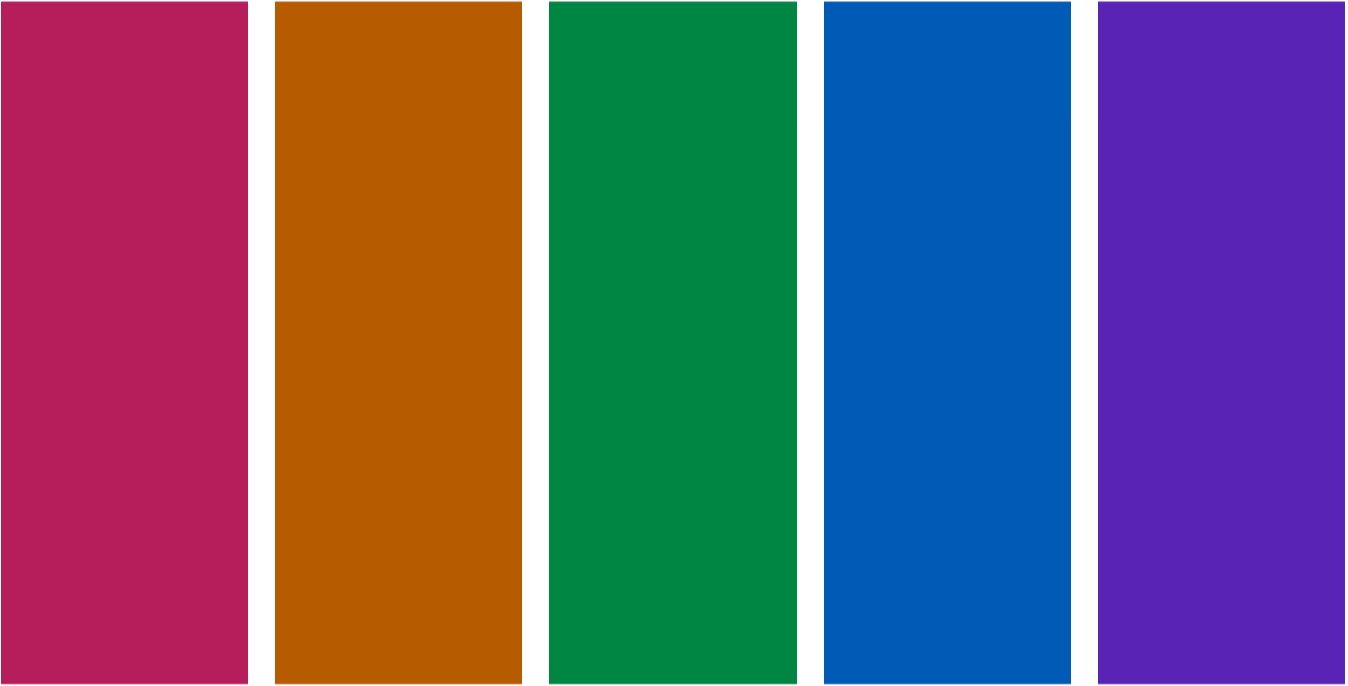
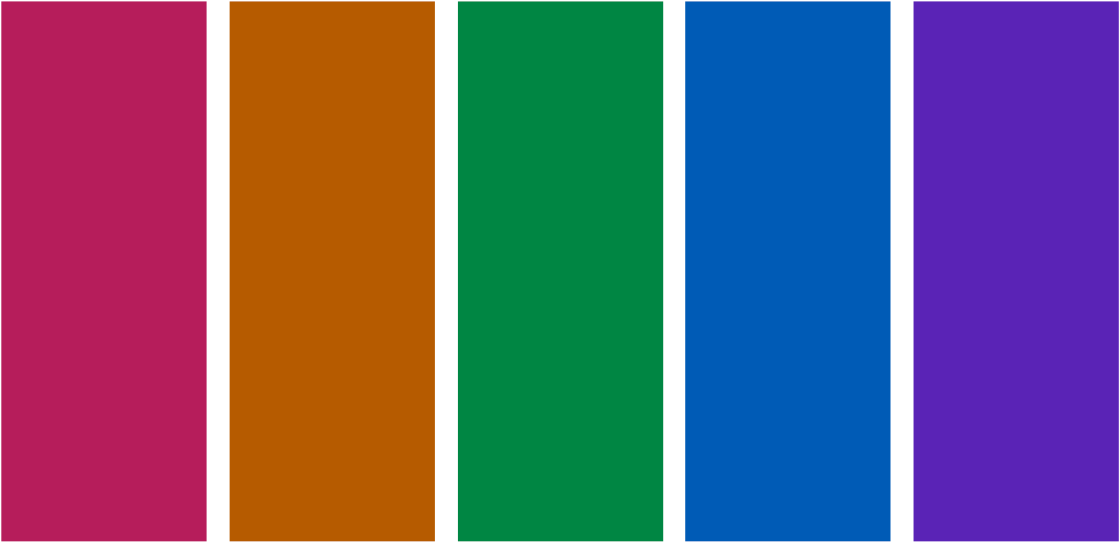
fix colour codes and images

diff --git a/_site/posts/2021-05-15-custom-syntax-highlighting-for-distill/index.html b/_site/posts/2021-05-15-custom-syntax-highlighting-for-distill/index.html
@@ -105,8 +105,8 @@ code span.wa { color: #5e5e5e; font-style: italic; } /* Warning */
 <meta property="og:description" content="A guide to modifying the default {distill} syntax highlighting theme, including colour choice considerations, and its implementation in {distilltools}"/>
 <meta property="og:url" content="https://ellakaye.rbind.io/posts/2021-05-15-custom-syntax-highlighting-for-distill/"/>
 <meta property="og:image" content="https://ellakaye.rbind.io/posts/2021-05-15-custom-syntax-highlighting-for-distill/more-theme-in-action.png"/>
-<meta property="og:image:width" content="1356"/>
-<meta property="og:image:height" content="1092"/>
+<meta property="og:image:width" content="1850"/>
+<meta property="og:image:height" content="1470"/>
 <meta property="og:locale" content="en_US"/>
 <meta property="og:site_name" content="ELLA KAYE"/>
 
@@ -116,8 +116,8 @@ code span.wa { color: #5e5e5e; font-style: italic; } /* Warning */
 <meta property="twitter:description" content="A guide to modifying the default {distill} syntax highlighting theme, including colour choice considerations, and its implementation in {distilltools}"/>
 <meta property="twitter:url" content="https://ellakaye.rbind.io/posts/2021-05-15-custom-syntax-highlighting-for-distill/"/>
 <meta property="twitter:image" content="https://ellakaye.rbind.io/posts/2021-05-15-custom-syntax-highlighting-for-distill/more-theme-in-action.png"/>
-<meta property="twitter:image:width" content="1356"/>
-<meta property="twitter:image:height" content="1092"/>
+<meta property="twitter:image:width" content="1850"/>
+<meta property="twitter:image:height" content="1470"/>
 <meta property="twitter:site" content="@ellamkaye"/>
 <meta property="twitter:creator" content="@ellamkaye"/>
 
@@ -2562,7 +2562,7 @@ gtag('config', 'UA-101621242-1');
 <p>At the end of the process, the palette for my syntax highlighting scheme is as in Figure <a href="#fig:ek-syntax-highlighting-palette">1</a>.</p>
 <div class="layout-chunk" data-layout="l-body">
 <div class="figure"><span id="fig:ek-syntax-highlighting-palette"></span>
-<img src="ek-syntax-highlighting-palette.png" alt="A swatch of five colours, a bright pink, orange, green, blue and purple." width="674" />
+<img src="ek-syntax-highlighting-palette.png" alt="A swatch of five colours, a bright pink, orange, green, blue and purple." width="560" />
 <p class="caption">
 Figure 1: The color palette used for syntax highlighting throughout this site.
 </p>
@@ -2576,10 +2576,10 @@ Figure 1: The color palette used for syntax highlighting throughout this site.
 <span class='va'>theme</span> <span class='op'>&lt;-</span> <span class='fu'><a href='https://rdrr.io/r/base/readLines.html'>readLines</a></span><span class='op'>(</span><span class='st'>"arrow.theme"</span><span class='op'>)</span>
 
 <span class='co'># base R approach</span>
-<span class='va'>theme</span> <span class='op'>&lt;-</span> <span class='fu'><a href='https://rdrr.io/r/base/grep.html'>gsub</a></span><span class='op'>(</span><span class='st'>"#AD0000"</span>, <span class='st'>"#BD005B"</span>, <span class='va'>theme</span><span class='op'>)</span> <span class='co'># red -&gt; pink</span>
-<span class='va'>theme</span> <span class='op'>&lt;-</span> <span class='fu'><a href='https://rdrr.io/r/base/grep.html'>gsub</a></span><span class='op'>(</span><span class='st'>"#8f5902"</span>, <span class='st'>"#B65D00"</span>, <span class='va'>theme</span><span class='op'>)</span> <span class='co'># brown -&gt; orange </span>
-<span class='va'>theme</span> <span class='op'>&lt;-</span> <span class='fu'><a href='https://rdrr.io/r/base/grep.html'>gsub</a></span><span class='op'>(</span><span class='st'>"#007BA5"</span>, <span class='st'>"#5A00B5"</span>, <span class='va'>theme</span><span class='op'>)</span> <span class='co'># blue -&gt; purple</span>
-<span class='va'>theme</span> <span class='op'>&lt;-</span> <span class='fu'><a href='https://rdrr.io/r/base/grep.html'>gsub</a></span><span class='op'>(</span><span class='st'>"#20794D"</span>, <span class='st'>"#008643"</span>, <span class='va'>theme</span><span class='op'>)</span> <span class='co'># green -&gt; green</span>
+<span class='va'>theme</span> <span class='op'>&lt;-</span> <span class='fu'><a href='https://rdrr.io/r/base/grep.html'>gsub</a></span><span class='op'>(</span><span class='st'>"#AD0000"</span>, <span class='st'>"#B6005B"</span>, <span class='va'>theme</span><span class='op'>)</span> <span class='co'># red -&gt; pink</span>
+<span class='va'>theme</span> <span class='op'>&lt;-</span> <span class='fu'><a href='https://rdrr.io/r/base/grep.html'>gsub</a></span><span class='op'>(</span><span class='st'>"#8f5902"</span>, <span class='st'>"#B65B00"</span>, <span class='va'>theme</span><span class='op'>)</span> <span class='co'># brown -&gt; brown </span>
+<span class='va'>theme</span> <span class='op'>&lt;-</span> <span class='fu'><a href='https://rdrr.io/r/base/grep.html'>gsub</a></span><span class='op'>(</span><span class='st'>"#007BA5"</span>, <span class='st'>"#5B00B6"</span>, <span class='va'>theme</span><span class='op'>)</span> <span class='co'># blue -&gt; purple</span>
+<span class='va'>theme</span> <span class='op'>&lt;-</span> <span class='fu'><a href='https://rdrr.io/r/base/grep.html'>gsub</a></span><span class='op'>(</span><span class='st'>"#20794D"</span>, <span class='st'>"#B65B00"</span>, <span class='va'>theme</span><span class='op'>)</span> <span class='co'># green -&gt; green</span>
 <span class='va'>theme</span> <span class='op'>&lt;-</span> <span class='fu'><a href='https://rdrr.io/r/base/grep.html'>gsub</a></span><span class='op'>(</span><span class='st'>"#4758AB"</span>, <span class='st'>"#005BB6"</span>, <span class='va'>theme</span><span class='op'>)</span> <span class='co'># purple -&gt; blue</span>
 
 <span class='co'># alternatively, tidyverse approach</span>
@@ -2587,9 +2587,9 @@ Figure 1: The color palette used for syntax highlighting throughout this site.
 <span class='kw'><a href='https://rdrr.io/r/base/library.html'>library</a></span><span class='op'>(</span><span class='va'><a href='https://magrittr.tidyverse.org'>magrittr</a></span><span class='op'>)</span>
 
 <span class='va'>theme</span> <span class='op'>&lt;-</span> <span class='fu'><a href='https://rdrr.io/r/base/readLines.html'>readLines</a></span><span class='op'>(</span><span class='st'>"arrow.theme"</span><span class='op'>)</span> <span class='op'>%&gt;%</span>
-   <span class='fu'><a href='https://stringr.tidyverse.org/reference/str_replace.html'>str_replace_all</a></span><span class='op'>(</span><span class='st'>"#AD0000"</span>, <span class='st'>"#BD005B"</span><span class='op'>)</span> <span class='op'>%&gt;%</span> <span class='co'># red -&gt; pink</span>
-   <span class='fu'><a href='https://stringr.tidyverse.org/reference/str_replace.html'>str_replace_all</a></span><span class='op'>(</span><span class='st'>"#8f5902"</span>, <span class='st'>"#B65D00"</span><span class='op'>)</span> <span class='op'>%&gt;%</span> <span class='co'># brown -&gt; brown </span>
-   <span class='fu'><a href='https://stringr.tidyverse.org/reference/str_replace.html'>str_replace_all</a></span><span class='op'>(</span><span class='st'>"#007BA5"</span>, <span class='st'>"#5A00B5"</span><span class='op'>)</span> <span class='op'>%&gt;%</span> <span class='co'># blue -&gt; purple</span>
+   <span class='fu'><a href='https://stringr.tidyverse.org/reference/str_replace.html'>str_replace_all</a></span><span class='op'>(</span><span class='st'>"#AD0000"</span>, <span class='st'>"#B6005B"</span><span class='op'>)</span> <span class='op'>%&gt;%</span> <span class='co'># red -&gt; pink</span>
+   <span class='fu'><a href='https://stringr.tidyverse.org/reference/str_replace.html'>str_replace_all</a></span><span class='op'>(</span><span class='st'>"#8f5902"</span>, <span class='st'>"#B65B00"</span><span class='op'>)</span> <span class='op'>%&gt;%</span> <span class='co'># brown -&gt; brown </span>
+   <span class='fu'><a href='https://stringr.tidyverse.org/reference/str_replace.html'>str_replace_all</a></span><span class='op'>(</span><span class='st'>"#007BA5"</span>, <span class='st'>"#5B00B6"</span><span class='op'>)</span> <span class='op'>%&gt;%</span> <span class='co'># blue -&gt; purple</span>
    <span class='fu'><a href='https://stringr.tidyverse.org/reference/str_replace.html'>str_replace_all</a></span><span class='op'>(</span><span class='st'>"#20794D"</span>, <span class='st'>"#008643"</span><span class='op'>)</span> <span class='op'>%&gt;%</span> <span class='co'># green -&gt; green</span>
    <span class='fu'><a href='https://stringr.tidyverse.org/reference/str_replace.html'>str_replace_all</a></span><span class='op'>(</span><span class='st'>"#4758AB"</span>, <span class='st'>"#005BB6"</span><span class='op'>)</span>     <span class='co'># purple -&gt; blue</span>
 

diff --git a/_posts/2021-05-15-custom-syntax-highlighting-for-distill/custom-syntax-highlighting-for-distill.html b/_posts/2021-05-15-custom-syntax-highlighting-for-distill/custom-syntax-highlighting-for-distill.html
@@ -101,8 +101,8 @@ code span.wa { color: #5e5e5e; font-style: italic; } /* Warning */
   <meta property="og:type" content="article"/>
   <meta property="og:description" content="A guide to modifying the default {distill} syntax highlighting theme, including colour choice considerations, and its implementation in {distilltools}"/>
   <meta property="og:image" content="https://ellakaye.rbind.io/more-theme-in-action.png"/>
-  <meta property="og:image:width" content="1356"/>
-  <meta property="og:image:height" content="1092"/>
+  <meta property="og:image:width" content="1850"/>
+  <meta property="og:image:height" content="1470"/>
   <meta property="og:locale" content="en_US"/>
 
   <!--  https://dev.twitter.com/cards/types/summary -->
@@ -110,8 +110,8 @@ code span.wa { color: #5e5e5e; font-style: italic; } /* Warning */
   <meta property="twitter:title" content="Custom Syntax Highlighting for {distill} Part 1: Modifying the default theme"/>
   <meta property="twitter:description" content="A guide to modifying the default {distill} syntax highlighting theme, including colour choice considerations, and its implementation in {distilltools}"/>
   <meta property="twitter:image" content="https://ellakaye.rbind.io/more-theme-in-action.png"/>
-  <meta property="twitter:image:width" content="1356"/>
-  <meta property="twitter:image:height" content="1092"/>
+  <meta property="twitter:image:width" content="1850"/>
+  <meta property="twitter:image:height" content="1470"/>
   <meta property="twitter:site" content="@ellamkaye"/>
   <meta property="twitter:creator" content="@ellamkaye"/>
 
@@ -1626,7 +1626,7 @@ code span.wa { color: #5e5e5e; font-style: italic; } /* Warning */
 <p>At the end of the process, the palette for my syntax highlighting scheme is as in Figure <a href="#fig:ek-syntax-highlighting-palette">1</a>.</p>
 <div class="layout-chunk" data-layout="l-body">
 <div class="figure"><span id="fig:ek-syntax-highlighting-palette"></span>
-<img src="ek-syntax-highlighting-palette.png" alt="A swatch of five colours, a bright pink, orange, green, blue and purple." width="674" />
+<img src="ek-syntax-highlighting-palette.png" alt="A swatch of five colours, a bright pink, orange, green, blue and purple." width="560" />
 <p class="caption">
 Figure 1: The color palette used for syntax highlighting throughout this site.
 </p>
@@ -1640,10 +1640,10 @@ Figure 1: The color palette used for syntax highlighting throughout this site.
 <span class='va'>theme</span> <span class='op'>&lt;-</span> <span class='fu'><a href='https://rdrr.io/r/base/readLines.html'>readLines</a></span><span class='op'>(</span><span class='st'>"arrow.theme"</span><span class='op'>)</span>
 
 <span class='co'># base R approach</span>
-<span class='va'>theme</span> <span class='op'>&lt;-</span> <span class='fu'><a href='https://rdrr.io/r/base/grep.html'>gsub</a></span><span class='op'>(</span><span class='st'>"#AD0000"</span>, <span class='st'>"#BD005B"</span>, <span class='va'>theme</span><span class='op'>)</span> <span class='co'># red -&gt; pink</span>
-<span class='va'>theme</span> <span class='op'>&lt;-</span> <span class='fu'><a href='https://rdrr.io/r/base/grep.html'>gsub</a></span><span class='op'>(</span><span class='st'>"#8f5902"</span>, <span class='st'>"#B65D00"</span>, <span class='va'>theme</span><span class='op'>)</span> <span class='co'># brown -&gt; orange </span>
-<span class='va'>theme</span> <span class='op'>&lt;-</span> <span class='fu'><a href='https://rdrr.io/r/base/grep.html'>gsub</a></span><span class='op'>(</span><span class='st'>"#007BA5"</span>, <span class='st'>"#5A00B5"</span>, <span class='va'>theme</span><span class='op'>)</span> <span class='co'># blue -&gt; purple</span>
-<span class='va'>theme</span> <span class='op'>&lt;-</span> <span class='fu'><a href='https://rdrr.io/r/base/grep.html'>gsub</a></span><span class='op'>(</span><span class='st'>"#20794D"</span>, <span class='st'>"#008643"</span>, <span class='va'>theme</span><span class='op'>)</span> <span class='co'># green -&gt; green</span>
+<span class='va'>theme</span> <span class='op'>&lt;-</span> <span class='fu'><a href='https://rdrr.io/r/base/grep.html'>gsub</a></span><span class='op'>(</span><span class='st'>"#AD0000"</span>, <span class='st'>"#B6005B"</span>, <span class='va'>theme</span><span class='op'>)</span> <span class='co'># red -&gt; pink</span>
+<span class='va'>theme</span> <span class='op'>&lt;-</span> <span class='fu'><a href='https://rdrr.io/r/base/grep.html'>gsub</a></span><span class='op'>(</span><span class='st'>"#8f5902"</span>, <span class='st'>"#B65B00"</span>, <span class='va'>theme</span><span class='op'>)</span> <span class='co'># brown -&gt; brown </span>
+<span class='va'>theme</span> <span class='op'>&lt;-</span> <span class='fu'><a href='https://rdrr.io/r/base/grep.html'>gsub</a></span><span class='op'>(</span><span class='st'>"#007BA5"</span>, <span class='st'>"#5B00B6"</span>, <span class='va'>theme</span><span class='op'>)</span> <span class='co'># blue -&gt; purple</span>
+<span class='va'>theme</span> <span class='op'>&lt;-</span> <span class='fu'><a href='https://rdrr.io/r/base/grep.html'>gsub</a></span><span class='op'>(</span><span class='st'>"#20794D"</span>, <span class='st'>"#B65B00"</span>, <span class='va'>theme</span><span class='op'>)</span> <span class='co'># green -&gt; green</span>
 <span class='va'>theme</span> <span class='op'>&lt;-</span> <span class='fu'><a href='https://rdrr.io/r/base/grep.html'>gsub</a></span><span class='op'>(</span><span class='st'>"#4758AB"</span>, <span class='st'>"#005BB6"</span>, <span class='va'>theme</span><span class='op'>)</span> <span class='co'># purple -&gt; blue</span>
 
 <span class='co'># alternatively, tidyverse approach</span>
@@ -1651,9 +1651,9 @@ Figure 1: The color palette used for syntax highlighting throughout this site.
 <span class='kw'><a href='https://rdrr.io/r/base/library.html'>library</a></span><span class='op'>(</span><span class='va'><a href='https://magrittr.tidyverse.org'>magrittr</a></span><span class='op'>)</span>
 
 <span class='va'>theme</span> <span class='op'>&lt;-</span> <span class='fu'><a href='https://rdrr.io/r/base/readLines.html'>readLines</a></span><span class='op'>(</span><span class='st'>"arrow.theme"</span><span class='op'>)</span> <span class='op'>%&gt;%</span>
-   <span class='fu'><a href='https://stringr.tidyverse.org/reference/str_replace.html'>str_replace_all</a></span><span class='op'>(</span><span class='st'>"#AD0000"</span>, <span class='st'>"#BD005B"</span><span class='op'>)</span> <span class='op'>%&gt;%</span> <span class='co'># red -&gt; pink</span>
-   <span class='fu'><a href='https://stringr.tidyverse.org/reference/str_replace.html'>str_replace_all</a></span><span class='op'>(</span><span class='st'>"#8f5902"</span>, <span class='st'>"#B65D00"</span><span class='op'>)</span> <span class='op'>%&gt;%</span> <span class='co'># brown -&gt; brown </span>
-   <span class='fu'><a href='https://stringr.tidyverse.org/reference/str_replace.html'>str_replace_all</a></span><span class='op'>(</span><span class='st'>"#007BA5"</span>, <span class='st'>"#5A00B5"</span><span class='op'>)</span> <span class='op'>%&gt;%</span> <span class='co'># blue -&gt; purple</span>
+   <span class='fu'><a href='https://stringr.tidyverse.org/reference/str_replace.html'>str_replace_all</a></span><span class='op'>(</span><span class='st'>"#AD0000"</span>, <span class='st'>"#B6005B"</span><span class='op'>)</span> <span class='op'>%&gt;%</span> <span class='co'># red -&gt; pink</span>
+   <span class='fu'><a href='https://stringr.tidyverse.org/reference/str_replace.html'>str_replace_all</a></span><span class='op'>(</span><span class='st'>"#8f5902"</span>, <span class='st'>"#B65B00"</span><span class='op'>)</span> <span class='op'>%&gt;%</span> <span class='co'># brown -&gt; brown </span>
+   <span class='fu'><a href='https://stringr.tidyverse.org/reference/str_replace.html'>str_replace_all</a></span><span class='op'>(</span><span class='st'>"#007BA5"</span>, <span class='st'>"#5B00B6"</span><span class='op'>)</span> <span class='op'>%&gt;%</span> <span class='co'># blue -&gt; purple</span>
    <span class='fu'><a href='https://stringr.tidyverse.org/reference/str_replace.html'>str_replace_all</a></span><span class='op'>(</span><span class='st'>"#20794D"</span>, <span class='st'>"#008643"</span><span class='op'>)</span> <span class='op'>%&gt;%</span> <span class='co'># green -&gt; green</span>
    <span class='fu'><a href='https://stringr.tidyverse.org/reference/str_replace.html'>str_replace_all</a></span><span class='op'>(</span><span class='st'>"#4758AB"</span>, <span class='st'>"#005BB6"</span><span class='op'>)</span>     <span class='co'># purple -&gt; blue</span>
 

diff --git a/_site/posts/2021-05-22-custom-syntax-highlighting-for-distill-part-2-creating-the-palette/index.html b/_site/posts/2021-05-22-custom-syntax-highlighting-for-distill-part-2-creating-the-palette/index.html
@@ -105,8 +105,8 @@ code span.wa { color: #5e5e5e; font-style: italic; } /* Warning */
 <meta property="og:description" content="How to create an appealing and accessible colour palette for a syntax highlighting scheme"/>
 <meta property="og:url" content="https://ellakaye.rbind.io/posts/2021-05-22-custom-syntax-highlighting-for-distill-part-2-creating-the-palette/"/>
 <meta property="og:image" content="https://ellakaye.rbind.io/posts/2021-05-22-custom-syntax-highlighting-for-distill-part-2-creating-the-palette/ek-syntax-highlighting-palette.png"/>
-<meta property="og:image:width" content="1348"/>
-<meta property="og:image:height" content="686"/>
+<meta property="og:image:width" content="1120"/>
+<meta property="og:image:height" content="542"/>
 <meta property="og:locale" content="en_US"/>
 <meta property="og:site_name" content="ELLA KAYE"/>
 
@@ -116,8 +116,8 @@ code span.wa { color: #5e5e5e; font-style: italic; } /* Warning */
 <meta property="twitter:description" content="How to create an appealing and accessible colour palette for a syntax highlighting scheme"/>
 <meta property="twitter:url" content="https://ellakaye.rbind.io/posts/2021-05-22-custom-syntax-highlighting-for-distill-part-2-creating-the-palette/"/>
 <meta property="twitter:image" content="https://ellakaye.rbind.io/posts/2021-05-22-custom-syntax-highlighting-for-distill-part-2-creating-the-palette/ek-syntax-highlighting-palette.png"/>
-<meta property="twitter:image:width" content="1348"/>
-<meta property="twitter:image:height" content="686"/>
+<meta property="twitter:image:width" content="1120"/>
+<meta property="twitter:image:height" content="542"/>
 <meta property="twitter:site" content="@ellamkaye"/>
 <meta property="twitter:creator" content="@ellamkaye"/>
 
@@ -2577,7 +2577,7 @@ Figure 8: Reducing brightness in all colours to the level of the green.
 <p>So, I settled on a compromise position. I reduced the brightness of the original pink, blue and purple for 83% to match the brightness of the accessibility-passing orange (71%), leaving only the green at a brightness of 53%, which it needs to pass the contrast check. That gives the palette in Figure <a href="#fig:final-palette">9</a>.</p>
 <div class="layout-chunk" data-layout="l-body">
 <div class="figure"><span id="fig:final-palette"></span>
-<img src="ek-syntax-highlighting-palette.png" alt="A swatch of five colours, a pink, orange, green, blue and purple, all quite bright, but still all with a contrast ratio of 4.5:1 or better against white." width="674" />
+<img src="ek-syntax-highlighting-palette.png" alt="A swatch of five colours, a pink, orange, green, blue and purple, all quite bright, but still all with a contrast ratio of 4.5:1 or better against white." width="560" />
 <p class="caption">
 Figure 9: The palette I settled on for my syntax highlighting scheme.
 </p>

diff --git a/_posts/2021-05-22-custom-syntax-highlighting-for-distill-part-2-creating-the-palette/custom-syntax-highlighting-for-distill-part-2-creating-the-palette.html b/_posts/2021-05-22-custom-syntax-highlighting-for-distill-part-2-creating-the-palette/custom-syntax-highlighting-for-distill-part-2-creating-the-palette.html
@@ -101,8 +101,8 @@ code span.wa { color: #5e5e5e; font-style: italic; } /* Warning */
   <meta property="og:type" content="article"/>
   <meta property="og:description" content="How to create an appealing and accessible colour palette for a syntax highlighting scheme"/>
   <meta property="og:image" content="https://ellakaye.rbind.io/ek-syntax-highlighting-palette.png"/>
-  <meta property="og:image:width" content="1348"/>
-  <meta property="og:image:height" content="686"/>
+  <meta property="og:image:width" content="1120"/>
+  <meta property="og:image:height" content="542"/>
   <meta property="og:locale" content="en_US"/>
 
   <!--  https://dev.twitter.com/cards/types/summary -->
@@ -110,8 +110,8 @@ code span.wa { color: #5e5e5e; font-style: italic; } /* Warning */
   <meta property="twitter:title" content="Custom Syntax Highlighting for {distill} Part 2: Creating the Palette"/>
   <meta property="twitter:description" content="How to create an appealing and accessible colour palette for a syntax highlighting scheme"/>
   <meta property="twitter:image" content="https://ellakaye.rbind.io/ek-syntax-highlighting-palette.png"/>
-  <meta property="twitter:image:width" content="1348"/>
-  <meta property="twitter:image:height" content="686"/>
+  <meta property="twitter:image:width" content="1120"/>
+  <meta property="twitter:image:height" content="542"/>
   <meta property="twitter:site" content="@ellamkaye"/>
   <meta property="twitter:creator" content="@ellamkaye"/>
 
@@ -1641,7 +1641,7 @@ Figure 8: Reducing brightness in all colours to the level of the green.
 <p>So, I settled on a compromise position. I reduced the brightness of the original pink, blue and purple for 83% to match the brightness of the accessibility-passing orange (71%), leaving only the green at a brightness of 53%, which it needs to pass the contrast check. That gives the palette in Figure <a href="#fig:final-palette">9</a>.</p>
 <div class="layout-chunk" data-layout="l-body">
 <div class="figure"><span id="fig:final-palette"></span>
-<img src="ek-syntax-highlighting-palette.png" alt="A swatch of five colours, a pink, orange, green, blue and purple, all quite bright, but still all with a contrast ratio of 4.5:1 or better against white." width="674" />
+<img src="ek-syntax-highlighting-palette.png" alt="A swatch of five colours, a pink, orange, green, blue and purple, all quite bright, but still all with a contrast ratio of 4.5:1 or better against white." width="560" />
 <p class="caption">
 Figure 9: The palette I settled on for my syntax highlighting scheme.
 </p>
